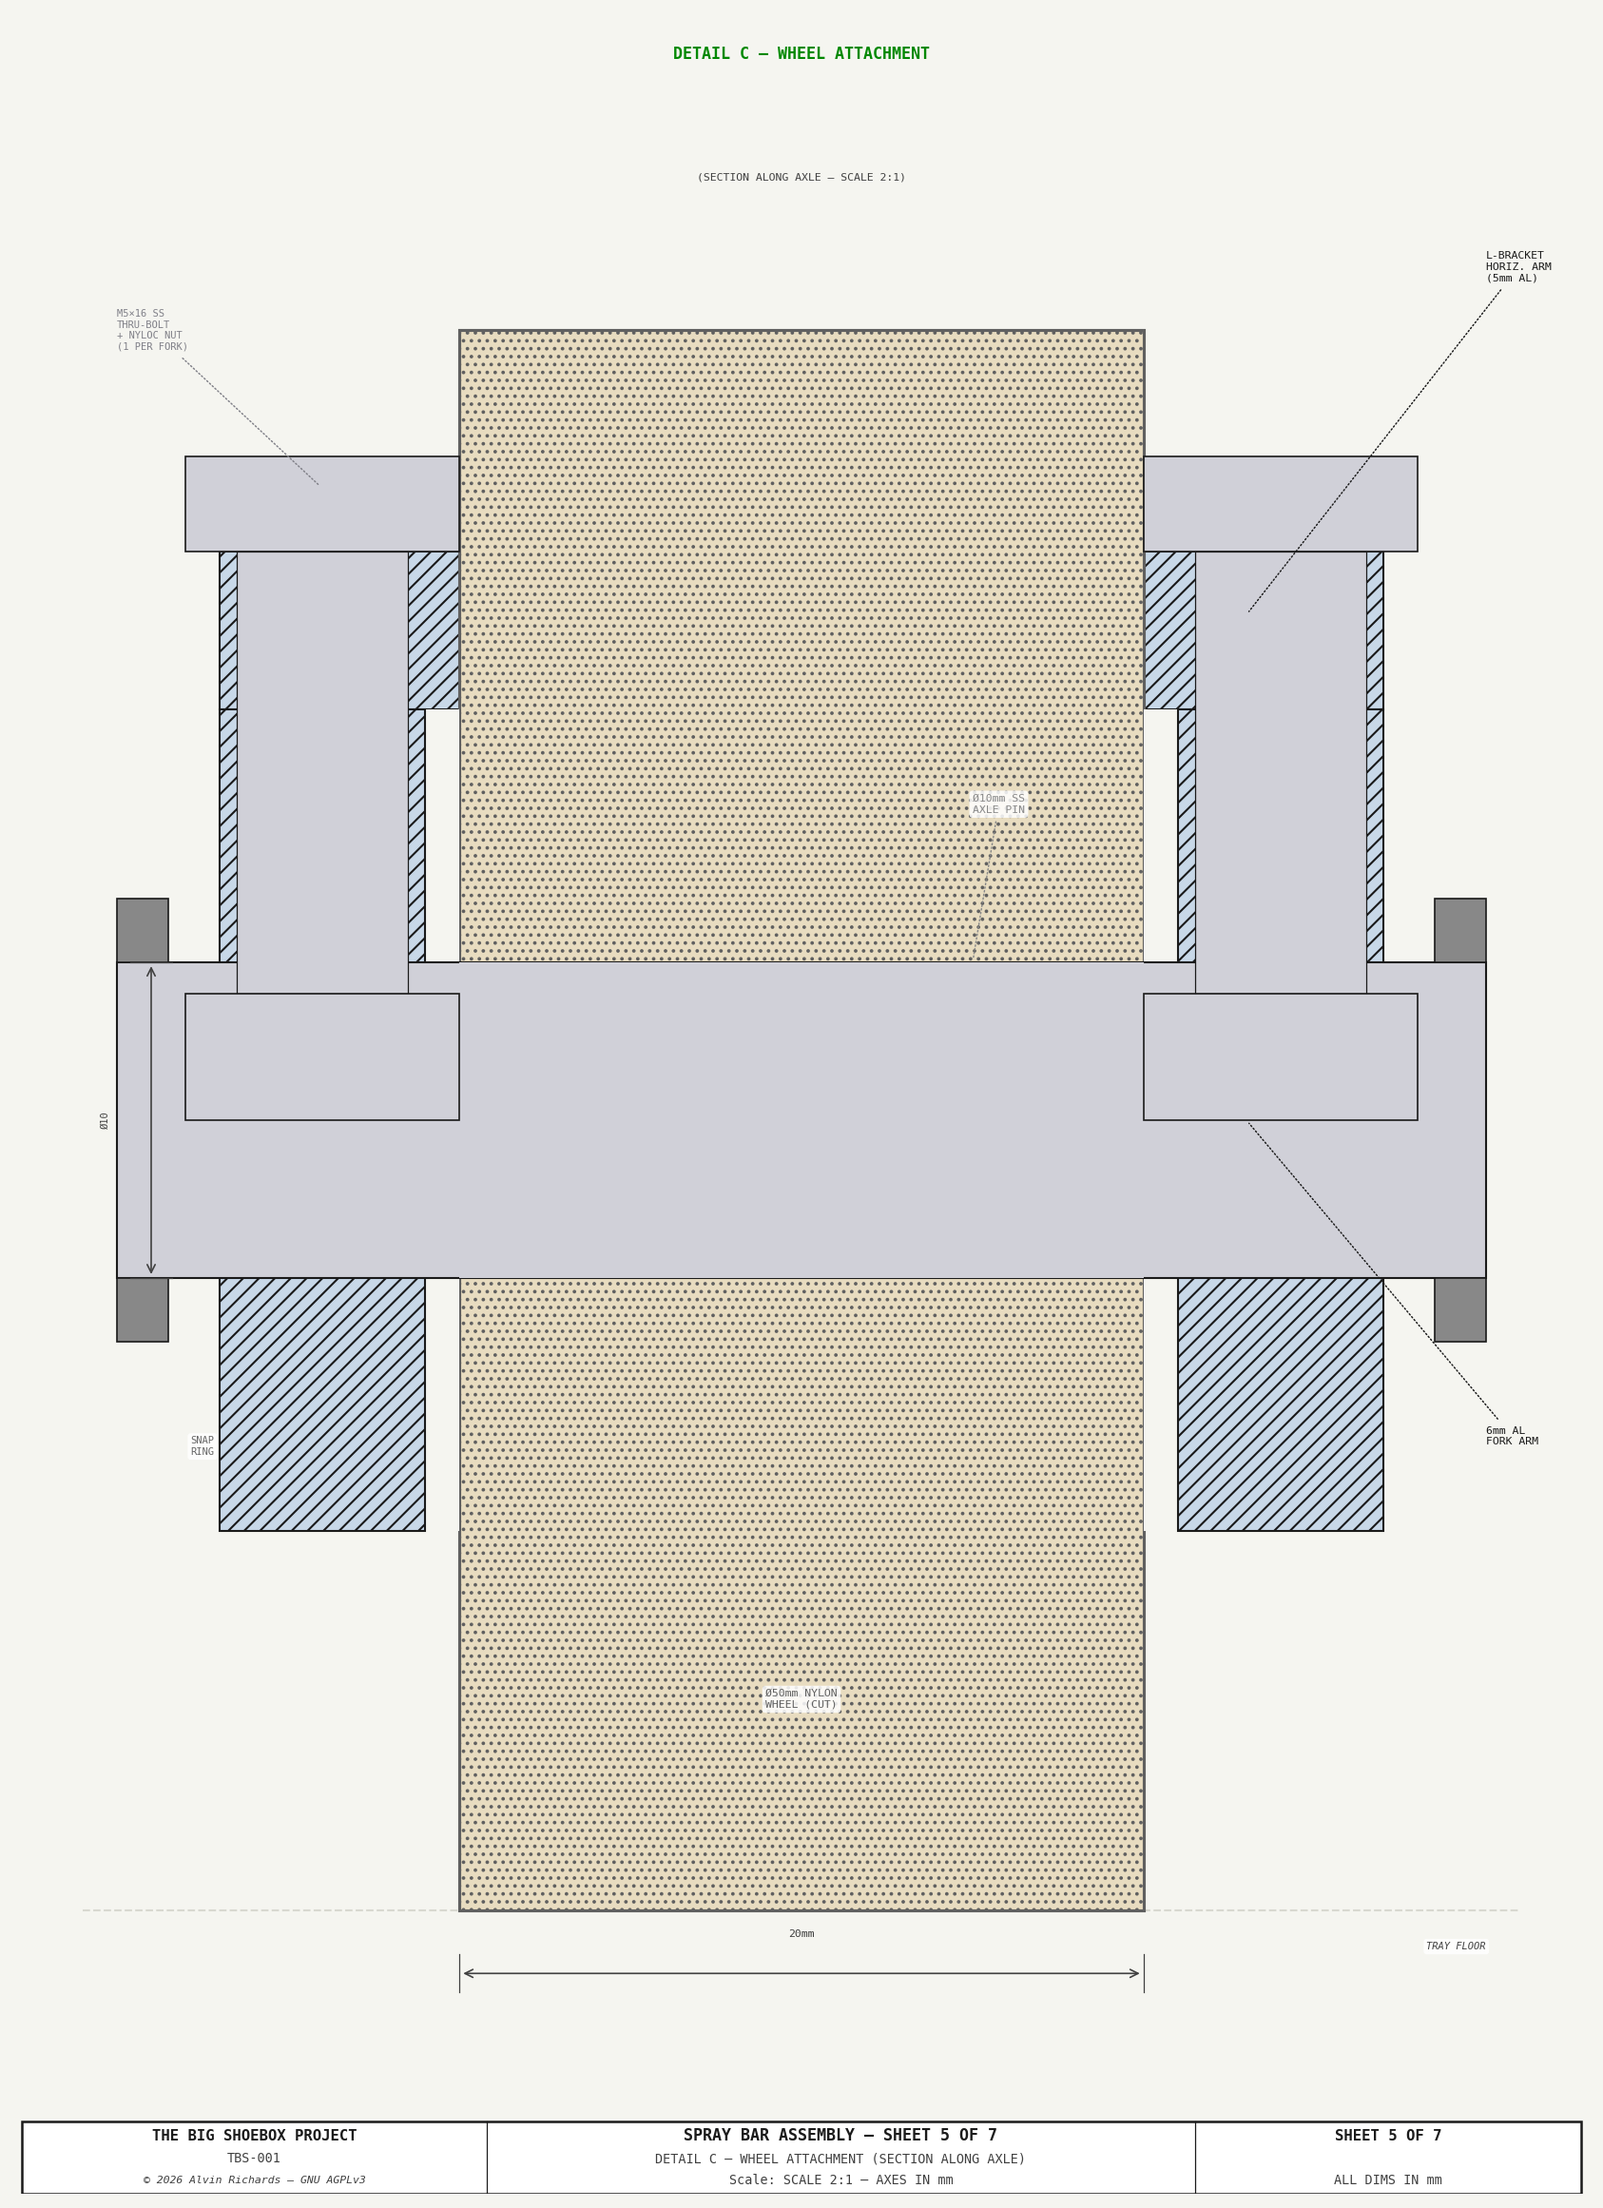
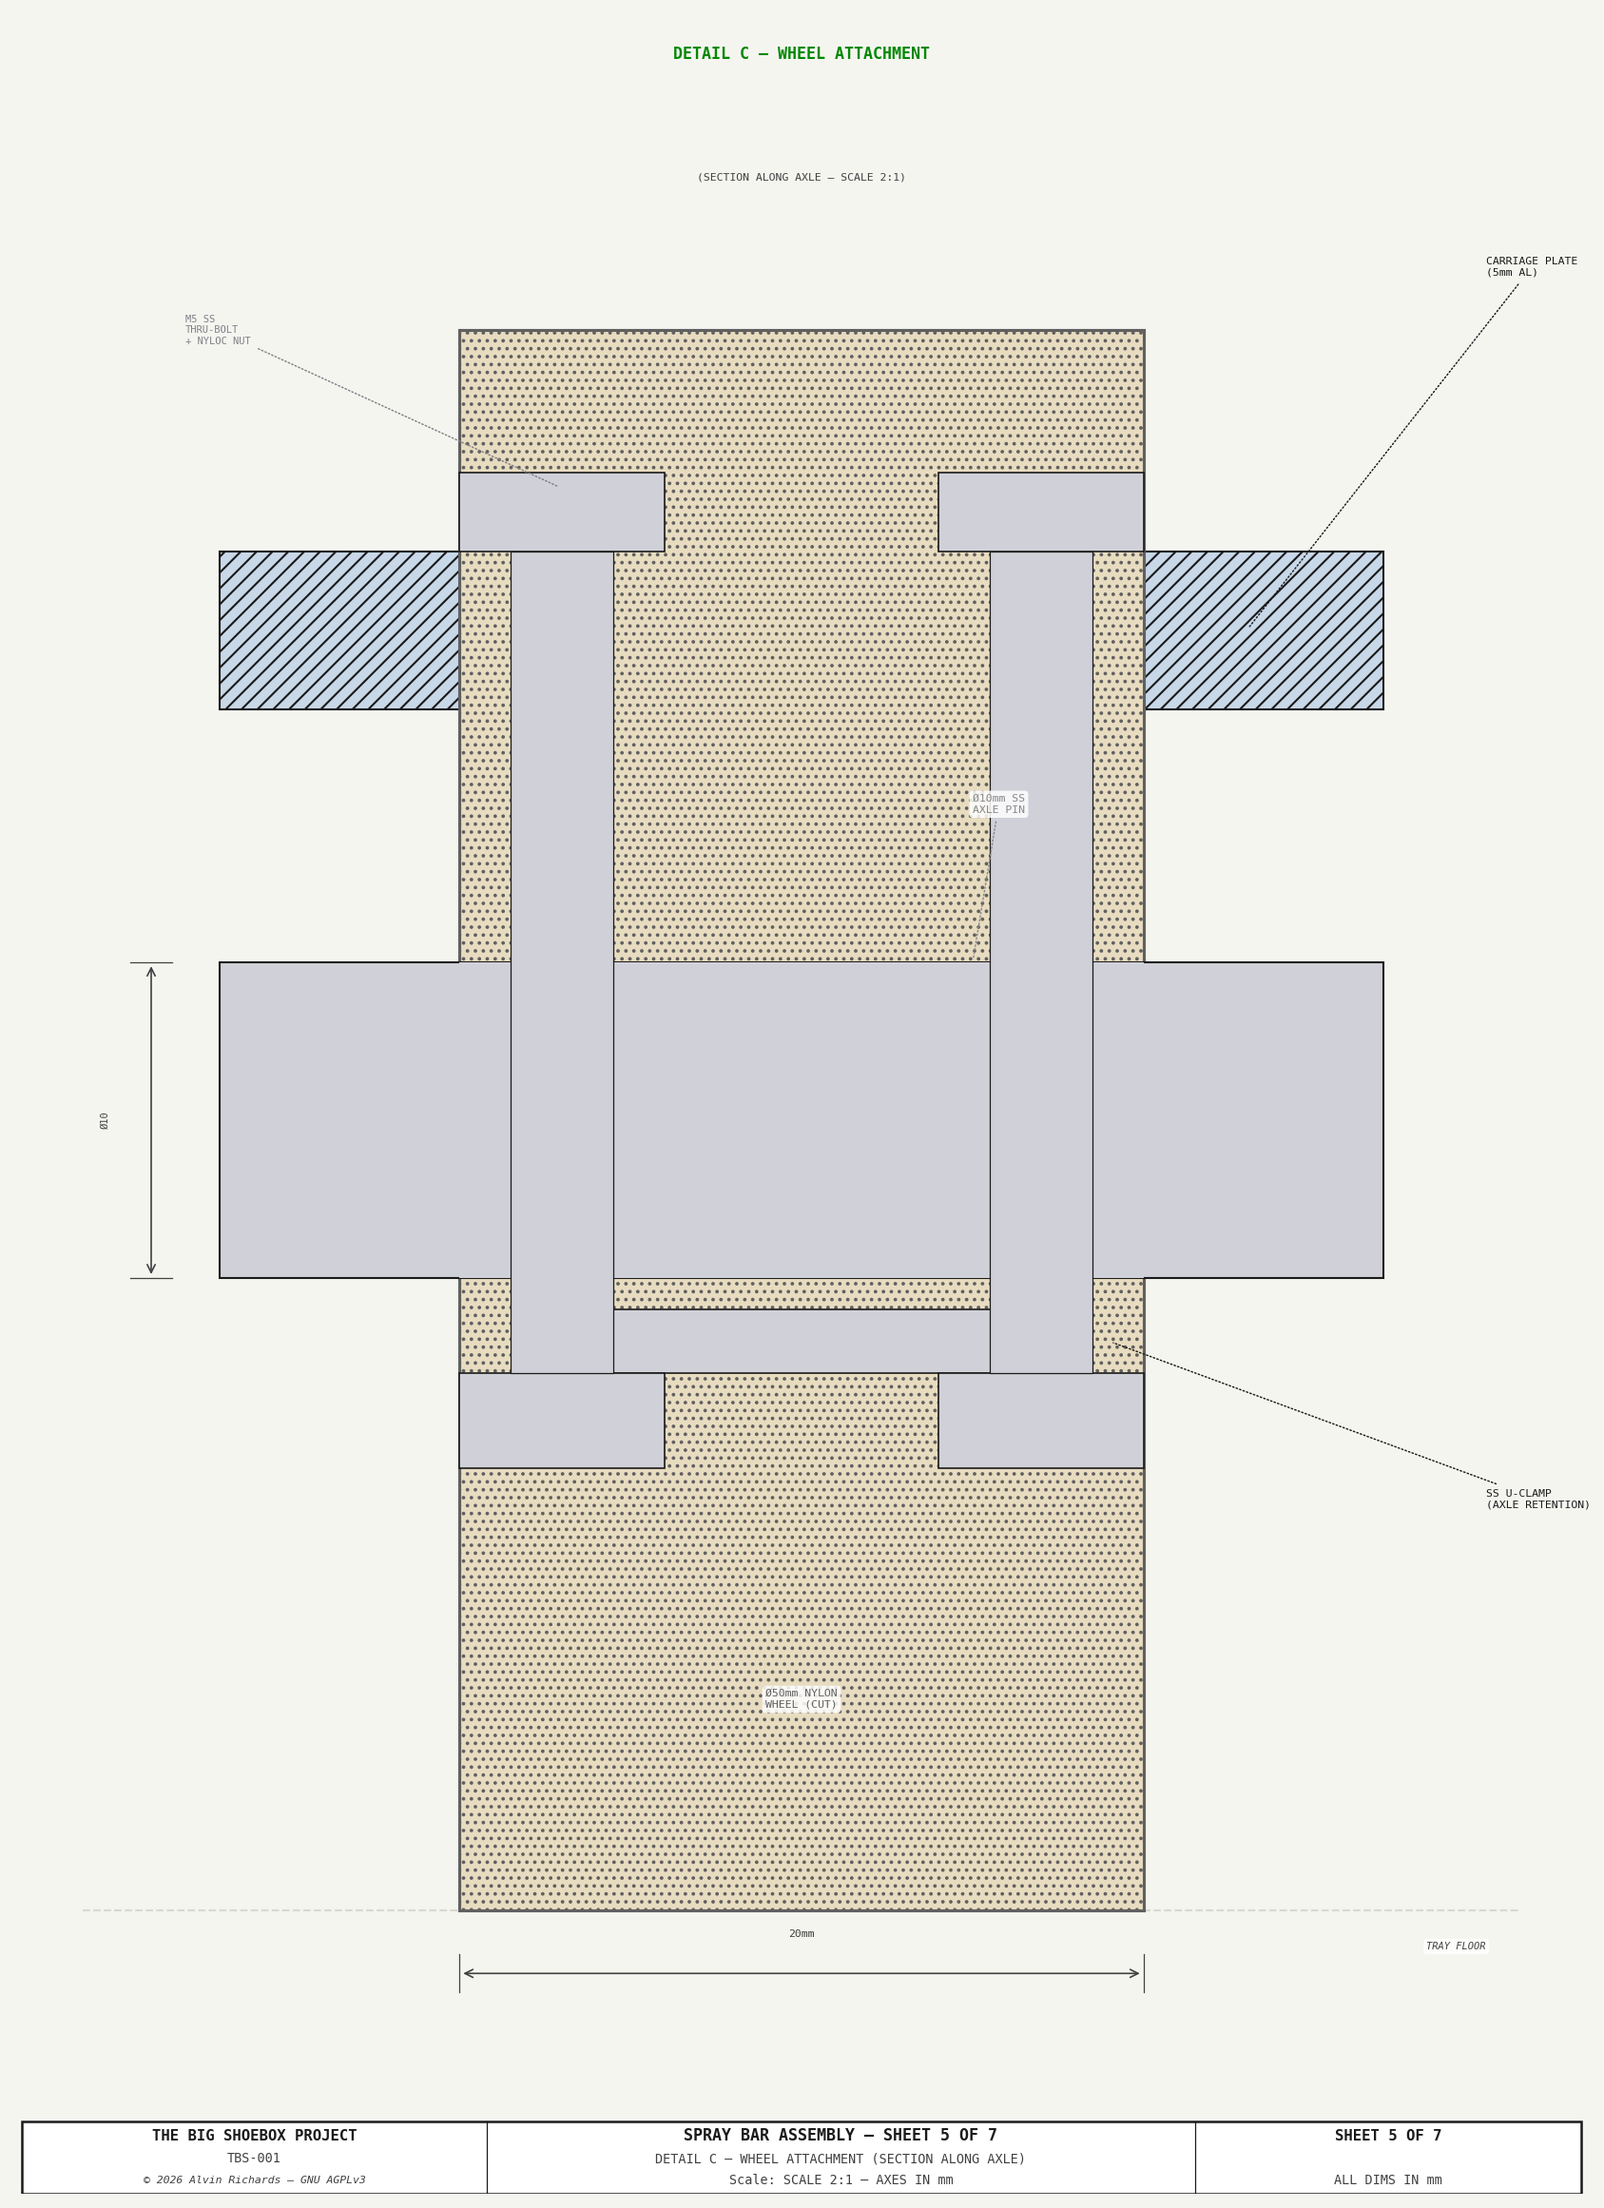
Update sheets 5 and 6 to show axle U-clamp retention instead of fork brackets
Sheet 5: replace fork arm section with U-clamp wrapping under axle,
through-bolts to carriage plate, remove snap rings. Sheet 6: replace
fork bracket rectangles with U-clamp squares and bolt circles, rename
L-bracket to carriage plate. All labels updated.

diff --git a/generate_spray_bar_diagram.py b/generate_spray_bar_diagram.py
@@ -909,7 +909,7 @@ def draw_sheet2():
     # ── Notes ────────────────────────────────────────────────────────────
     cs_notes = [
         "CROSS SECTION (COMPOSITE):",
-        f"1. Beam rides on 2× Ø50mm nylon wheels, fork brackets to plate.",
+        f"1. Beam rides on 2× Ø50mm nylon wheels, U-clamp axle retention.",
         "2. U-clamp cradles beam from below, bolted through carriage plate.",
         "3. Ball joint on plate wing → arm → pole through walkway slit.",
         "4. Water: poly pipe → barbed fitting → irrigation nozzle → spray.",
@@ -1289,8 +1289,8 @@ def draw_sheet4():
 
 # ═════════════════════════════════════════════════════════════════════════════
 # SHEET 5 — Detail C: Wheel Attachment
-# Section along axle centerline showing fork bracket arms, nylon wheel bore,
-# axle pin, snap-ring retention, and connection to L-bracket horizontal arm.
+# Section along axle centerline showing carriage plate, axle retention
+# U-clamp, nylon wheel bore, axle pin, and through-bolt retention.
 # ═════════════════════════════════════════════════════════════════════════════
 
 def draw_sheet5():
@@ -1316,48 +1316,59 @@ def draw_sheet5():
 
     C_NYLON_FILL = "#E8DCC0"
 
-    # ── L-bracket horizontal arm ─────────────────────────────────────────
-    ax_w.add_patch(Rectangle((-17, 13), 34, 5,
+    # Geometry (2:1 scale, coordinates in mm at 2:1)
+    plate_bot_y = 13
+    plate_h = 5
+    axle_r = 5
+    auc_t = 2
+    auc_gap = 1
+    auc_inner = axle_r + auc_gap
+    auc_outer = auc_inner + auc_t
+    auc_bar_top = -axle_r - auc_gap
+    auc_bar_bot = auc_bar_top - auc_t
+
+    # ── Carriage plate ───────────────────────────────────────────────────
+    ax_w.add_patch(Rectangle((-17, plate_bot_y), 34, plate_h,
                    fc=C_ALUM_FILL, ec=C_FRAME, lw=1.0, hatch="///", zorder=3))
-
-    # ── Left fork arm ────────────────────────────────────────────────────
-    ax_w.add_patch(Rectangle((-17, -13), 6, 26,
-                   fc=C_ALUM_FILL, ec=C_FRAME, lw=1.0, hatch="///", zorder=4))
-
-    # ── Right fork arm ───────────────────────────────────────────────────
-    ax_w.add_patch(Rectangle((11, -13), 6, 26,
-                   fc=C_ALUM_FILL, ec=C_FRAME, lw=1.0, hatch="///", zorder=4))
 
     # ── Nylon wheel body ─────────────────────────────────────────────────
     ax_w.add_patch(Rectangle((-10, -25), 20, 50,
                    fc=C_NYLON_FILL, ec=C_WHEEL, lw=1.5, hatch="...", zorder=3))
 
-    # ── Clearance gaps fork/wheel ────────────────────────────────────────
-    for gap_x in [-11, 10]:
-        ax_w.add_patch(Rectangle((gap_x, -13), 1, 26,
-                       fc=C_BG, ec="none", zorder=3.5))
-
     # ── Axle pin ─────────────────────────────────────────────────────────
-    ax_w.add_patch(Rectangle((-20, -5), 40, 10,
+    ax_w.add_patch(Rectangle((-17, -axle_r), 34, 2 * axle_r,
                    fc="#D0D0D8", ec=C_FRAME, lw=1.0, zorder=5))
-    ax_w.add_patch(Rectangle((-10, -5), 20, 10,
+    ax_w.add_patch(Rectangle((-10, -axle_r), 20, 2 * axle_r,
                    fc="#D0D0D8", ec="none", zorder=5))
 
-    # ── Snap rings ───────────────────────────────────────────────────────
-    for sr_x in [-20, 18.5]:
-        ax_w.add_patch(Rectangle((sr_x, -7), 1.5, 2,
-                       fc="#888888", ec=C_FRAME, lw=0.8, zorder=6))
-        ax_w.add_patch(Rectangle((sr_x, 5), 1.5, 2,
-                       fc="#888888", ec=C_FRAME, lw=0.8, zorder=6))
+    # ── Axle retention U-clamp ───────────────────────────────────────────
+    # Bottom bar (under axle)
+    ax_w.add_patch(Rectangle((-auc_outer, auc_bar_bot),
+                   2 * auc_outer, auc_t,
+                   fc=C_UCLAMP, ec=C_FRAME, lw=0.8, zorder=6))
+    # Left leg
+    ax_w.add_patch(Rectangle((-auc_outer, auc_bar_top),
+                   auc_t, plate_bot_y - auc_bar_top,
+                   fc=C_UCLAMP, ec=C_FRAME, lw=0.8, zorder=6))
+    # Right leg
+    ax_w.add_patch(Rectangle((auc_inner, auc_bar_top),
+                   auc_t, plate_bot_y - auc_bar_top,
+                   fc=C_UCLAMP, ec=C_FRAME, lw=0.8, zorder=6))
 
-    # ── M5 through-bolts ────────────────────────────────────────────────
+    # ── Clearance gaps U-clamp/wheel ─────────────────────────────────────
+    for gap_x in [-auc_outer - 0.5, auc_outer - 0.5]:
+        ax_w.add_patch(Rectangle((gap_x, auc_bar_bot), 1, plate_bot_y - auc_bar_bot,
+                       fc=C_BG, ec="none", zorder=3.5))
+
+    # ── M5 through-bolts (through U-clamp legs + plate) ──────────────────
     C_BOLT_FILL = "#D0D0D8"
-    for bolt_cx in [-14, 14]:
-        ax_w.add_patch(Rectangle((bolt_cx - 4, 18), 8, 3,
+    for bolt_cx in [-(auc_inner + auc_t / 2), auc_inner + auc_t / 2]:
+        ax_w.add_patch(Rectangle((bolt_cx - 3, auc_bar_bot - 3), 6, 3,
                        fc=C_BOLT_FILL, ec=C_FRAME, lw=0.8, zorder=7))
-        ax_w.add_patch(Rectangle((bolt_cx - 2.5, 4), 5, 14,
+        ax_w.add_patch(Rectangle((bolt_cx - 1.5, auc_bar_bot), 3,
+                       plate_bot_y + plate_h - auc_bar_bot,
                        fc=C_BOLT_FILL, ec=C_FRAME, lw=0.6, zorder=7))
-        ax_w.add_patch(Rectangle((bolt_cx - 4, 0), 8, 4,
+        ax_w.add_patch(Rectangle((bolt_cx - 3, plate_bot_y + plate_h), 6, 2.5,
                        fc=C_BOLT_FILL, ec=C_FRAME, lw=0.8, zorder=7))
 
     _bbox_w = dict(boxstyle="round,pad=0.3", fc="white", ec="none", alpha=0.85)
@@ -1370,12 +1381,12 @@ def draw_sheet5():
               style="italic", bbox=_bbox_w, **FONT, zorder=15)
 
     # ── Labels ───────────────────────────────────────────────────────────
-    leader(ax_w, 13, 16, w_xr - 1, w_yt - 8,
-           "L-BRACKET\nHORIZ. ARM\n(5mm AL)",
+    leader(ax_w, 13, plate_bot_y + plate_h / 2, w_xr - 1, w_yt - 8,
+           "CARRIAGE PLATE\n(5mm AL)",
            fs=5.5, color=C_FRAME, font=FONT, zorder=20)
 
-    leader(ax_w, 13, 0, w_xr - 1, -10,
-           "6mm AL\nFORK ARM",
+    leader(ax_w, auc_outer + 1, auc_bar_bot + auc_t / 2, w_xr - 1, -12,
+           "SS U-CLAMP\n(AXLE RETENTION)",
            fs=5.5, color=C_FRAME, font=FONT, zorder=20)
 
     ax_w.text(0, -18, "Ø50mm NYLON\nWHEEL (CUT)",
@@ -1386,19 +1397,15 @@ def draw_sheet5():
            "Ø10mm SS\nAXLE PIN",
            fs=5.5, color="#888888", font=FONT, zorder=20, bbox=_bbox_w)
 
-    ax_w.text(-17.5, -10, "SNAP\nRING",
-              ha="center", va="top", fontsize=5, color="#666666",
-              bbox=_bbox_w, **FONT, zorder=20)
-
-    leader(ax_w, -14, 20, -20, w_yt - 10,
-           "M5×16 SS\nTHRU-BOLT\n+ NYLOC NUT\n(1 PER FORK)",
+    leader(ax_w, -(auc_inner + auc_t / 2), plate_bot_y + plate_h + 2, -18, w_yt - 10,
+           "M5 SS\nTHRU-BOLT\n+ NYLOC NUT",
            fs=5, color="#808088", font=FONT, zorder=20)
 
     # ── Dimensions ───────────────────────────────────────────────────────
     draw_dim_h(ax_w, -10, 10, w_yb + 3,
                "20mm", offset=2, fs=5.5, font=FONT)
 
-    draw_dim_v(ax_w, w_xl + 2, -5, 5,
+    draw_dim_v(ax_w, w_xl + 2, -axle_r, axle_r,
                "Ø10", offset=2, fs=5, font=FONT)
 
     # ── Title block ──────────────────────────────────────────────────────
@@ -1415,7 +1422,7 @@ def draw_sheet5():
 
 # ═════════════════════════════════════════════════════════════════════════════
 # SHEET 6 — Detail D: Wheel Attachment Plan
-# X-Yd looking down.  Beam, L-bracket arm, U-clamp, fork brackets, wheels.
+# X-Yd looking down.  Beam, carriage plate, beam U-clamp, axle U-clamps, wheels.
 # ═════════════════════════════════════════════════════════════════════════════
 
 def draw_sheet6():
@@ -1469,7 +1476,7 @@ def draw_sheet6():
               ha="center", va="center", fontsize=4.5, color=C_FRAME,
               bbox=_bbox_d, **FONT, zorder=15)
 
-    # ── L-bracket arm ────────────────────────────────────────────────────
+    # ── Carriage plate ──────────────────────────────────────────────────
     arm_half_span = WHEEL_SPACING_YD / 2 + 18
     arm_w_x = 20
     ax_d.add_patch(Rectangle((CARRIAGE_OFFSET_X - arm_w_x / 2, -arm_half_span),
@@ -1501,15 +1508,18 @@ def draw_sheet6():
            "U-CLAMP\nFLARED LEGS\n+ WING NUTS",
            fs=5, color=C_BOLT, font=FONT, zorder=20)
 
-    # ── Fork brackets ────────────────────────────────────────────────────
-    fork_t = 6
+    # ── Axle retention U-clamps (plan view) ────────────────────────────
+    auc_w_plan = 16
+    auc_t_plan = 2
     for w_sign in [-1, 1]:
         w_yd_ctr = w_sign * WHEEL_SPACING_YD / 2
-        for offset in [-WHEEL_WIDTH / 2 - 2, WHEEL_WIDTH / 2 + 2]:
-            fork_yd = w_yd_ctr + offset
-            ax_d.add_patch(Rectangle((CARRIAGE_OFFSET_X - fork_t / 2 - 4, fork_yd - 1),
-                           fork_t, 2,
-                           fc=C_ALUM_FILL, ec=C_FRAME, lw=0.6, zorder=7))
+        ax_d.add_patch(Rectangle((CARRIAGE_OFFSET_X - auc_w_plan / 2,
+                                  w_yd_ctr - auc_w_plan / 2),
+                       auc_w_plan, auc_w_plan,
+                       fc=C_UCLAMP, ec=C_FRAME, lw=0.6, alpha=0.5, zorder=7))
+        for bolt_off in [-auc_w_plan / 2 + 3, auc_w_plan / 2 - 3]:
+            ax_d.add_patch(Circle((CARRIAGE_OFFSET_X, w_yd_ctr + bolt_off), 2,
+                         fc=C_BOLT, ec=C_FRAME, lw=0.4, zorder=8))
 
     # ── Wheels ───────────────────────────────────────────────────────────
     for w_sign in [-1, 1]:
@@ -1530,7 +1540,7 @@ def draw_sheet6():
 
     leader(ax_d, -arm_w_x / 2 - 1, 0,
            D_X_LO + 200, 45,
-           "L-BRACKET ARM\n(5mm AL PLATE)",
+           "CARRIAGE PLATE\n(5mm AL, NOTCHED)",
            fs=5, color=C_FRAME, font=FONT, zorder=20)
 
     # ── Dimensions ───────────────────────────────────────────────────────
